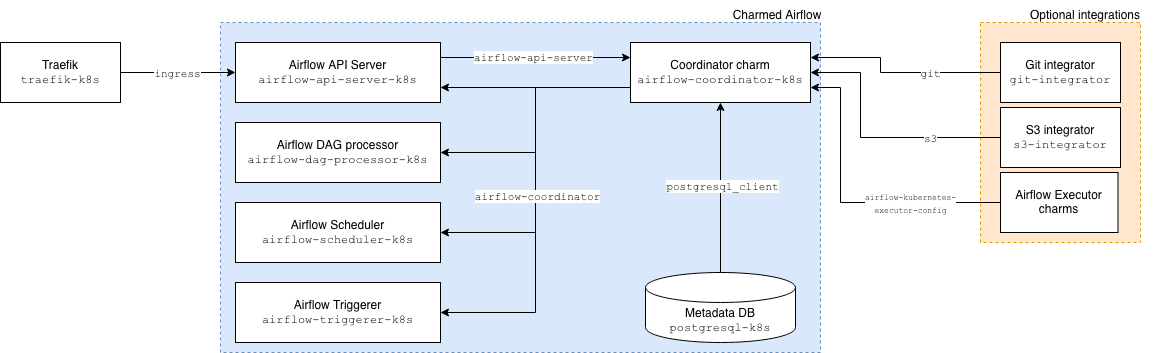
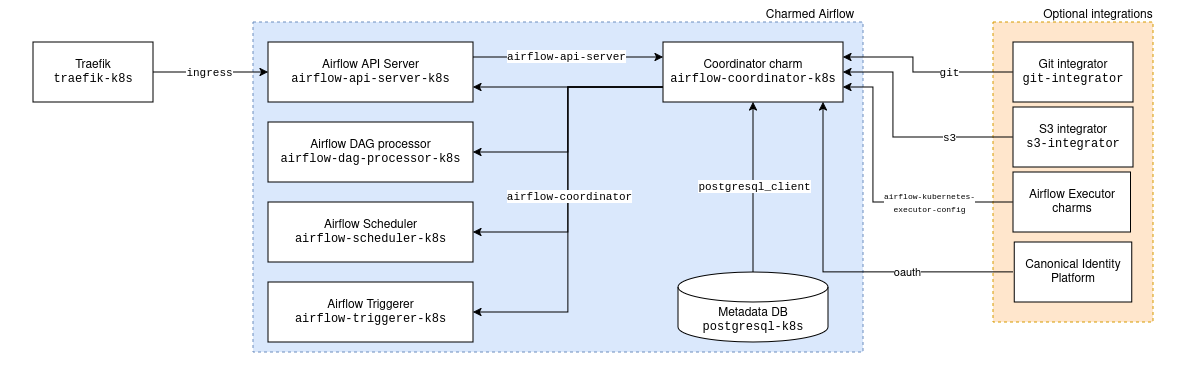
[WF-416] Add documentation for integrating with the identity platform (#21)
* Add documentation for integrating with the identity platform

* Address PR feedback

Changed region(s): [[0.0, 0.0, 0.9796, 1.0]]

diff --git a/docs/how-to/integrate/hydra.rst b/docs/how-to/integrate/hydra.rst
@@ -1,0 +1,54 @@
+Integrate with the Canonical Identity Platform
+=============================================================
+
+The `Canonical Identity Platform`__ is a charmed solution designed to integrate with external Identity and Access Management (IAM) systems, while also offering the option for a fully built-in IAM deployment. Within the platform, `Hydra`__ acts as the OpenID Connect (OIDC) server, providing an ``oauth`` relation interface.
+
+The Canonical Identity Platform can either serve as an identity broker to federate external identity providers, or support native identity management via Ory Kratos.
+
+Prerequisites
+---------------------------------------------
+
+A running Charmed Airflow deployment. If you haven't deployed it yet, follow
+the :doc:`tutorial </tutorial>` first.
+
+Deploy the Canonical Identity Platform
+---------------------------------------
+
+Deploy the Canonical Identity Platform and configure your preferred identity provider. For detailed instructions on both supported integration methods, refer to the ``Set up the identity provider`` section of the `Canonical Identity Platform tutorial`__.
+
+Integrate with Airflow Coordinator
+-------------------------------------
+
+Add the required integration between the ``hydra`` and ``airflow-coordinator-k8s`` charms:
+
+.. code-block:: bash
+    juju switch airflow
+    juju consume <hydra_offer_url> hydra
+    juju integrate hydra:oauth airflow-coordinator-k8s:oauth
+
+.. note::
+    You can find the ``<hydra_offer_url>`` in either:
+    - The output of terraform apply
+    - The output of ``juju offers --model iam``
+
+This integration will enable authentication with the identity providers in the deployed Canonical Identity Platform.
+
+Configure Authorization
+---------------------------
+
+Configure any of the following options to map identity provider groups to their predefined Airflow roles:
+
+- ``idp_groups_for_admin``: Groups mapped to the Airflow ``Admin`` role
+- ``idp_groups_for_op``: Groups mapped to the Airflow ``Op`` role
+- ``idp_groups_for_user``: Groups mapped to the Airflow ``User`` role
+- ``idp_groups_for_viewer``: Groups mapped to the Airflow ``Viewer`` role
+- ``idp_groups_for_public``: Groups mapped to the Airflow ``Public`` role
+
+.. code-block:: bash
+    juju config airflow-coordinator-k8s idp_groups_for_admin="managers,product_managers"
+    juju config airflow-coordinator-k8s idp_groups_for_user="data_engineers"
+
+Additionally, set ``enable_user_registration`` to toggle user self-registration within Airflow (assigning them the ``Public`` role by default).
+
+.. code-block:: bash
+    juju config airflow-coordinator-k8s enable_user_registration=true

diff --git a/docs/explanation/architecture-overview.rst b/docs/explanation/architecture-overview.rst
@@ -90,6 +90,8 @@ DAG distribution without baking DAGs into container images.
   and credentials for a remote Git repository containing DAGs.
 * **S3 integrator** (``s3-integrator``) – provides the connection details and
   credentials for an S3-compatible object storage bucket containing DAGs.
+* **Ory Hydra** (``hydra``) – Provides the OAuth configurations required to enable
+  IAM integration.
 
 Integrations
 ------------
@@ -132,3 +134,5 @@ The following integrations enable optional capabilities.
 * ``s3`` – used by the coordinator to collect the connection information
   required to fetch DAGs from an S3-compatible bucket, through the S3
   integrator.
+* ``oauth`` – Used by the coordinator to retrieve OAuth configurations from the
+  Canonical Identity Platform to enable IAM integration.

diff --git a/README.md b/README.md
@@ -10,7 +10,7 @@ See [its documentation](https://canonical-starter-pack.readthedocs-hosted.com/la
 
 ### Build it
 
-Run the following command within the `docs` folder to build the documentation locally: 
+Run the following command within the `docs` folder to build the documentation locally:
 
 ```
    make run
@@ -20,19 +20,19 @@ Run the following command within the `docs` folder to build the documentation lo
 
 Run various checks locally with the following commands.
 
-Check links: 
+Check links:
 
 ```
    make linkcheck
 ```
 
-Check spelling: 
+Check spelling:
 
 ```
    make spelling
 ```
 
-Check inclusive language: 
+Check inclusive language:
 
 ```
    make woke
